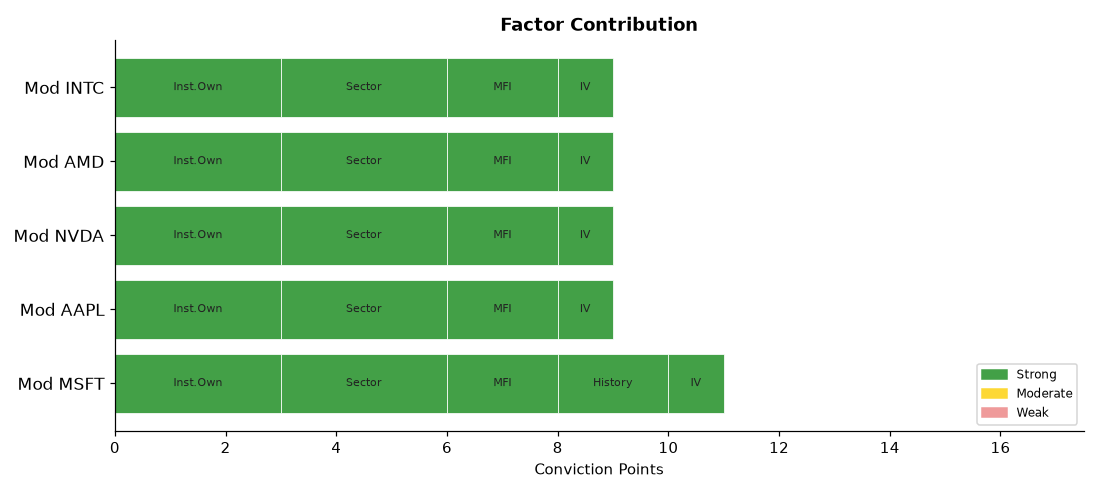
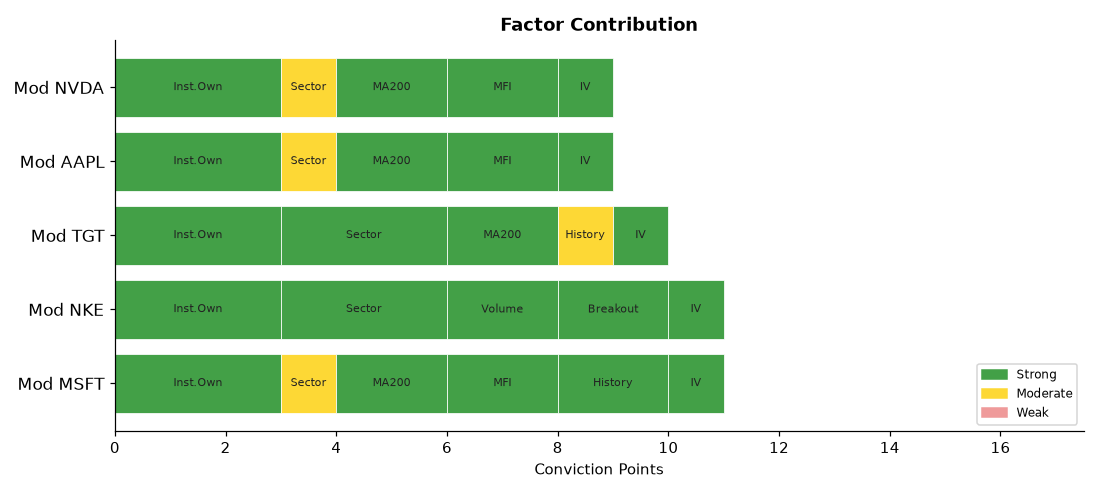
deploy: b7fadf5b06deb90e7ebb92f278722414bdd9750d

diff --git a/index.html b/index.html
@@ -4,7 +4,7 @@
   <meta charset="UTF-8">
   <meta name="viewport" content="width=device-width,initial-scale=1">
   <meta http-equiv="Cache-Control" content="no-cache,no-store,must-revalidate">
-  <title>Stock Breakout Screener — 2026-10-03 00:52</title>
+  <title>Stock Breakout Screener — 2026-10-03 04:41</title>
   <style>
     *{box-sizing:border-box;margin:0;padding:0}
     body{font-family:'Segoe UI',Arial,sans-serif;background:#f0f2f5;
@@ -34,7 +34,7 @@
 
 <div class="hdr">
   <h1>📈 Stock Breakout Screener</h1>
-  <p>Updated: 2026-10-03 00:52 UTC &nbsp;·&nbsp; Phase: Overnight &nbsp;·&nbsp;
+  <p>Updated: 2026-10-03 04:41 UTC &nbsp;·&nbsp; Phase: Pre-Market (before 9:30 AM ET) &nbsp;·&nbsp;
      129 stocks screened &nbsp;·&nbsp; Top 5 by conviction score</p>
 </div>
 
@@ -42,13 +42,13 @@
   <strong style="font-size:14px">Market Sentiment: 🐻 Bearish</strong>
   <div class="bar-wrap" style="margin-top:10px">
     <div style="width:0%;background:#43a047"></div>
-    <div style="width:6%;background:#fdd835"></div>
-    <div style="width:94%;background:#e53935"></div>
+    <div style="width:8%;background:#fdd835"></div>
+    <div style="width:92%;background:#e53935"></div>
   </div>
   <div style="font-size:12px;color:#555">
     🟢 Strong 0% &nbsp;
-    🟡 Moderate 6% &nbsp;
-    🔴 Weak 94%
+    🟡 Moderate 8% &nbsp;
+    🔴 Weak 92%
   </div>
 </div>
 
@@ -69,7 +69,7 @@
             </span>
           </div>
           <ul style="margin:0;padding-left:18px;font-size:13px;
-                     color:#333;line-height:1.8"><li style="margin:5px 0"><span style="background:#ffebee;color:#b71c1c;padding:2px 7px;border-radius:4px;font-size:11px;">❌</span> Volume: <b>0.5× average</b> — Above-average activity</li><li style="margin:5px 0"><span style="background:#ffebee;color:#b71c1c;padding:2px 7px;border-radius:4px;font-size:11px;">❌</span> Candle: close <b>$nan</b> vs open <b>$nan</b> (+nan%) — regular market close</li><li style="margin:5px 0"><span style="background:#ffebee;color:#b71c1c;padding:2px 7px;border-radius:4px;font-size:11px;">❌</span> 200-Day MA: price <b>$nan</b> vs MA <b>$nan</b> — <b>❌ Below</b> long-term trend</li><li style="margin:5px 0"><span style="background:#e8f5e9;color:#2e7d32;padding:2px 7px;border-radius:4px;font-size:11px;">✅</span> Inst. ownership: <b>75.8%</b> · MFI: <b>64.1</b> · Market cap: <b>$3842.9B</b></li><li style="margin:5px 0"><span style="background:#e8f5e9;color:#2e7d32;padding:2px 7px;border-radius:4px;font-size:11px;">✅</span> Last similar breakout: <b>Jul 30, 2026</b> → <b>+10.1%</b> over 10 trading days</li></ul>
+                     color:#333;line-height:1.8"><li style="margin:5px 0"><span style="background:#ffebee;color:#b71c1c;padding:2px 7px;border-radius:4px;font-size:11px;">❌</span> Volume: <b>0.5× average</b> — Above-average activity</li><li style="margin:5px 0"><span style="background:#ffebee;color:#b71c1c;padding:2px 7px;border-radius:4px;font-size:11px;">❌</span> Candle: close <b>$517.53</b> vs open <b>$519.39</b> (-0.4%) — regular market close</li><li style="margin:5px 0"><span style="background:#e8f5e9;color:#2e7d32;padding:2px 7px;border-radius:4px;font-size:11px;">✅</span> 200-Day MA: price <b>$517.53</b> vs MA <b>$435.45</b> — <b>✅ Above</b> long-term trend</li><li style="margin:5px 0"><span style="background:#e8f5e9;color:#2e7d32;padding:2px 7px;border-radius:4px;font-size:11px;">✅</span> Inst. ownership: <b>75.8%</b> · MFI: <b>66.1</b> · Market cap: <b>$3842.9B</b></li><li style="margin:5px 0"><span style="background:#e8f5e9;color:#2e7d32;padding:2px 7px;border-radius:4px;font-size:11px;">✅</span> Last similar breakout: <b>Jul 30, 2026</b> → <b>+10.1%</b> over 10 trading days</li></ul>
         </div>
         <div style="background:#fff;border:1px solid #ddd;border-radius:10px;
                     padding:16px 20px;margin-bottom:12px;
@@ -77,7 +77,41 @@
           <div style="display:flex;align-items:center;gap:10px;
                       flex-wrap:wrap;margin-bottom:10px">
             <span style="font-size:22px">🟡</span>
-            <span style="font-size:19px;font-weight:700">2. AAPL</span>
+            <span style="font-size:19px;font-weight:700">2. NKE</span>
+            <span style="font-size:12px;color:#666">Consumer Disc</span>
+            <span style="margin-left:auto;background:#1a237e;color:#fff;
+                         padding:3px 12px;border-radius:12px;
+                         font-size:13px;font-weight:600">
+              11/17
+            </span>
+          </div>
+          <ul style="margin:0;padding-left:18px;font-size:13px;
+                     color:#333;line-height:1.8"><li style="margin:5px 0"><span style="background:#e8f5e9;color:#2e7d32;padding:2px 7px;border-radius:4px;font-size:11px;">✅</span> Volume: <b>5.3× average</b> — 🔥 Strong unusual activity</li><li style="margin:5px 0"><span style="background:#e8f5e9;color:#2e7d32;padding:2px 7px;border-radius:4px;font-size:11px;">✅</span> Candle: close <b>$33.87</b> vs open <b>$32.55</b> (+4.1%) — regular market close</li><li style="margin:5px 0"><span style="background:#ffebee;color:#b71c1c;padding:2px 7px;border-radius:4px;font-size:11px;">❌</span> 200-Day MA: price <b>$33.87</b> vs MA <b>$41.39</b> — <b>❌ Below</b> long-term trend</li><li style="margin:5px 0"><span style="background:#e8f5e9;color:#2e7d32;padding:2px 7px;border-radius:4px;font-size:11px;">✅</span> Inst. ownership: <b>82.5%</b> · MFI: <b>22.2</b> · Market cap: <b>$50.2B</b></li></ul>
+        </div>
+        <div style="background:#fff;border:1px solid #ddd;border-radius:10px;
+                    padding:16px 20px;margin-bottom:12px;
+                    box-shadow:0 2px 6px rgba(0,0,0,.07)">
+          <div style="display:flex;align-items:center;gap:10px;
+                      flex-wrap:wrap;margin-bottom:10px">
+            <span style="font-size:22px">🟡</span>
+            <span style="font-size:19px;font-weight:700">3. TGT</span>
+            <span style="font-size:12px;color:#666">Consumer Disc</span>
+            <span style="margin-left:auto;background:#1a237e;color:#fff;
+                         padding:3px 12px;border-radius:12px;
+                         font-size:13px;font-weight:600">
+              10/17
+            </span>
+          </div>
+          <ul style="margin:0;padding-left:18px;font-size:13px;
+                     color:#333;line-height:1.8"><li style="margin:5px 0"><span style="background:#ffebee;color:#b71c1c;padding:2px 7px;border-radius:4px;font-size:11px;">❌</span> Volume: <b>0.9× average</b> — Above-average activity</li><li style="margin:5px 0"><span style="background:#ffebee;color:#b71c1c;padding:2px 7px;border-radius:4px;font-size:11px;">❌</span> Candle: close <b>$156.00</b> vs open <b>$157.00</b> (-0.6%) — regular market close</li><li style="margin:5px 0"><span style="background:#e8f5e9;color:#2e7d32;padding:2px 7px;border-radius:4px;font-size:11px;">✅</span> 200-Day MA: price <b>$156.00</b> vs MA <b>$138.50</b> — <b>✅ Above</b> long-term trend</li><li style="margin:5px 0"><span style="background:#e8f5e9;color:#2e7d32;padding:2px 7px;border-radius:4px;font-size:11px;">✅</span> Inst. ownership: <b>89.0%</b> · MFI: <b>27.6</b> · Market cap: <b>$70.9B</b></li><li style="margin:5px 0"><span style="background:#fffde7;color:#f57f17;padding:2px 7px;border-radius:4px;font-size:11px;">⚠</span> Last similar breakout: <b>Aug 19, 2026</b> → <b>+2.7%</b> over 10 trading days</li></ul>
+        </div>
+        <div style="background:#fff;border:1px solid #ddd;border-radius:10px;
+                    padding:16px 20px;margin-bottom:12px;
+                    box-shadow:0 2px 6px rgba(0,0,0,.07)">
+          <div style="display:flex;align-items:center;gap:10px;
+                      flex-wrap:wrap;margin-bottom:10px">
+            <span style="font-size:22px">🟡</span>
+            <span style="font-size:19px;font-weight:700">4. AAPL</span>
             <span style="font-size:12px;color:#666">Technology</span>
             <span style="margin-left:auto;background:#1a237e;color:#fff;
                          padding:3px 12px;border-radius:12px;
@@ -86,7 +120,7 @@
             </span>
           </div>
           <ul style="margin:0;padding-left:18px;font-size:13px;
-                     color:#333;line-height:1.8"><li style="margin:5px 0"><span style="background:#ffebee;color:#b71c1c;padding:2px 7px;border-radius:4px;font-size:11px;">❌</span> Volume: <b>0.6× average</b> — Above-average activity</li><li style="margin:5px 0"><span style="background:#ffebee;color:#b71c1c;padding:2px 7px;border-radius:4px;font-size:11px;">❌</span> Candle: close <b>$nan</b> vs open <b>$nan</b> (+nan%) — regular market close</li><li style="margin:5px 0"><span style="background:#ffebee;color:#b71c1c;padding:2px 7px;border-radius:4px;font-size:11px;">❌</span> 200-Day MA: price <b>$nan</b> vs MA <b>$nan</b> — <b>❌ Below</b> long-term trend</li><li style="margin:5px 0"><span style="background:#e8f5e9;color:#2e7d32;padding:2px 7px;border-radius:4px;font-size:11px;">✅</span> Inst. ownership: <b>66.3%</b> · MFI: <b>68.3</b> · Market cap: <b>$4869.9B</b></li></ul>
+                     color:#333;line-height:1.8"><li style="margin:5px 0"><span style="background:#ffebee;color:#b71c1c;padding:2px 7px;border-radius:4px;font-size:11px;">❌</span> Volume: <b>0.7× average</b> — Above-average activity</li><li style="margin:5px 0"><span style="background:#ffebee;color:#b71c1c;padding:2px 7px;border-radius:4px;font-size:11px;">❌</span> Candle: close <b>$333.69</b> vs open <b>$333.26</b> (+0.1%) — regular market close</li><li style="margin:5px 0"><span style="background:#e8f5e9;color:#2e7d32;padding:2px 7px;border-radius:4px;font-size:11px;">✅</span> 200-Day MA: price <b>$333.69</b> vs MA <b>$304.88</b> — <b>✅ Above</b> long-term trend</li><li style="margin:5px 0"><span style="background:#e8f5e9;color:#2e7d32;padding:2px 7px;border-radius:4px;font-size:11px;">✅</span> Inst. ownership: <b>66.3%</b> · MFI: <b>70.3</b> · Market cap: <b>$4869.9B</b></li></ul>
         </div>
         <div style="background:#fff;border:1px solid #ddd;border-radius:10px;
                     padding:16px 20px;margin-bottom:12px;
@@ -94,7 +128,7 @@
           <div style="display:flex;align-items:center;gap:10px;
                       flex-wrap:wrap;margin-bottom:10px">
             <span style="font-size:22px">🟡</span>
-            <span style="font-size:19px;font-weight:700">3. NVDA</span>
+            <span style="font-size:19px;font-weight:700">5. NVDA</span>
             <span style="font-size:12px;color:#666">Technology</span>
             <span style="margin-left:auto;background:#1a237e;color:#fff;
                          padding:3px 12px;border-radius:12px;
@@ -103,41 +137,7 @@
             </span>
           </div>
           <ul style="margin:0;padding-left:18px;font-size:13px;
-                     color:#333;line-height:1.8"><li style="margin:5px 0"><span style="background:#ffebee;color:#b71c1c;padding:2px 7px;border-radius:4px;font-size:11px;">❌</span> Volume: <b>1.0× average</b> — Above-average activity</li><li style="margin:5px 0"><span style="background:#ffebee;color:#b71c1c;padding:2px 7px;border-radius:4px;font-size:11px;">❌</span> Candle: close <b>$nan</b> vs open <b>$nan</b> (+nan%) — regular market close</li><li style="margin:5px 0"><span style="background:#ffebee;color:#b71c1c;padding:2px 7px;border-radius:4px;font-size:11px;">❌</span> 200-Day MA: price <b>$nan</b> vs MA <b>$nan</b> — <b>❌ Below</b> long-term trend</li><li style="margin:5px 0"><span style="background:#e8f5e9;color:#2e7d32;padding:2px 7px;border-radius:4px;font-size:11px;">✅</span> Inst. ownership: <b>71.4%</b> · MFI: <b>80.6</b> · Market cap: <b>$5649.2B</b></li></ul>
-        </div>
-        <div style="background:#fff;border:1px solid #ddd;border-radius:10px;
-                    padding:16px 20px;margin-bottom:12px;
-                    box-shadow:0 2px 6px rgba(0,0,0,.07)">
-          <div style="display:flex;align-items:center;gap:10px;
-                      flex-wrap:wrap;margin-bottom:10px">
-            <span style="font-size:22px">🟡</span>
-            <span style="font-size:19px;font-weight:700">4. AMD</span>
-            <span style="font-size:12px;color:#666">Technology</span>
-            <span style="margin-left:auto;background:#1a237e;color:#fff;
-                         padding:3px 12px;border-radius:12px;
-                         font-size:13px;font-weight:600">
-              9/17
-            </span>
-          </div>
-          <ul style="margin:0;padding-left:18px;font-size:13px;
-                     color:#333;line-height:1.8"><li style="margin:5px 0"><span style="background:#ffebee;color:#b71c1c;padding:2px 7px;border-radius:4px;font-size:11px;">❌</span> Volume: <b>0.6× average</b> — Above-average activity</li><li style="margin:5px 0"><span style="background:#ffebee;color:#b71c1c;padding:2px 7px;border-radius:4px;font-size:11px;">❌</span> Candle: close <b>$nan</b> vs open <b>$nan</b> (+nan%) — regular market close</li><li style="margin:5px 0"><span style="background:#ffebee;color:#b71c1c;padding:2px 7px;border-radius:4px;font-size:11px;">❌</span> 200-Day MA: price <b>$nan</b> vs MA <b>$nan</b> — <b>❌ Below</b> long-term trend</li><li style="margin:5px 0"><span style="background:#e8f5e9;color:#2e7d32;padding:2px 7px;border-radius:4px;font-size:11px;">✅</span> Inst. ownership: <b>75.4%</b> · MFI: <b>81.1</b> · Market cap: <b>$1034.8B</b></li></ul>
-        </div>
-        <div style="background:#fff;border:1px solid #ddd;border-radius:10px;
-                    padding:16px 20px;margin-bottom:12px;
-                    box-shadow:0 2px 6px rgba(0,0,0,.07)">
-          <div style="display:flex;align-items:center;gap:10px;
-                      flex-wrap:wrap;margin-bottom:10px">
-            <span style="font-size:22px">🟡</span>
-            <span style="font-size:19px;font-weight:700">5. INTC</span>
-            <span style="font-size:12px;color:#666">Technology</span>
-            <span style="margin-left:auto;background:#1a237e;color:#fff;
-                         padding:3px 12px;border-radius:12px;
-                         font-size:13px;font-weight:600">
-              9/17
-            </span>
-          </div>
-          <ul style="margin:0;padding-left:18px;font-size:13px;
-                     color:#333;line-height:1.8"><li style="margin:5px 0"><span style="background:#ffebee;color:#b71c1c;padding:2px 7px;border-radius:4px;font-size:11px;">❌</span> Volume: <b>0.8× average</b> — Above-average activity</li><li style="margin:5px 0"><span style="background:#ffebee;color:#b71c1c;padding:2px 7px;border-radius:4px;font-size:11px;">❌</span> Candle: close <b>$nan</b> vs open <b>$nan</b> (+nan%) — regular market close</li><li style="margin:5px 0"><span style="background:#ffebee;color:#b71c1c;padding:2px 7px;border-radius:4px;font-size:11px;">❌</span> 200-Day MA: price <b>$nan</b> vs MA <b>$nan</b> — <b>❌ Below</b> long-term trend</li><li style="margin:5px 0"><span style="background:#e8f5e9;color:#2e7d32;padding:2px 7px;border-radius:4px;font-size:11px;">✅</span> Inst. ownership: <b>62.6%</b> · MFI: <b>73.9</b> · Market cap: <b>$630.8B</b></li></ul>
+                     color:#333;line-height:1.8"><li style="margin:5px 0"><span style="background:#ffebee;color:#b71c1c;padding:2px 7px;border-radius:4px;font-size:11px;">❌</span> Volume: <b>1.0× average</b> — Above-average activity</li><li style="margin:5px 0"><span style="background:#ffebee;color:#b71c1c;padding:2px 7px;border-radius:4px;font-size:11px;">❌</span> Candle: close <b>$233.95</b> vs open <b>$236.06</b> (-0.9%) — regular market close</li><li style="margin:5px 0"><span style="background:#e8f5e9;color:#2e7d32;padding:2px 7px;border-radius:4px;font-size:11px;">✅</span> 200-Day MA: price <b>$233.95</b> vs MA <b>$210.67</b> — <b>✅ Above</b> long-term trend</li><li style="margin:5px 0"><span style="background:#e8f5e9;color:#2e7d32;padding:2px 7px;border-radius:4px;font-size:11px;">✅</span> Inst. ownership: <b>71.4%</b> · MFI: <b>82.4</b> · Market cap: <b>$5649.2B</b></li></ul>
         </div>
 
 
@@ -170,14 +170,14 @@
           <td style="font-weight:700;text-align:left;padding-left:10px">
             🟡 MSFT</td>
           <td style="background:#ffcdd2">0.5×</td>
-          <td style="background:#ffcdd2">+nan%</td>
-          <td style="background:#ffcdd2">
-            ▼ Below</td>
+          <td style="background:#ffcdd2">-0.4%</td>
+          <td style="background:#c8e6c9">
+            ▲ Above</td>
           <td style="background:#c8e6c9">
             75.8%</td>
           <td style="background:#c8e6c9">
-            64.1</td>
-          <td style="background:#c8e6c9">Technology</td>
+            66.1</td>
+          <td style="background:#fff9c4">Technology</td>
           <td style="background:#c8e6c9">
             47.7%</td>
           <td style="background:#c8e6c9">
@@ -186,16 +186,52 @@
         </tr>
         <tr>
           <td style="font-weight:700;text-align:left;padding-left:10px">
-            🟡 AAPL</td>
-          <td style="background:#ffcdd2">0.6×</td>
-          <td style="background:#ffcdd2">+nan%</td>
+            🟡 NKE</td>
+          <td style="background:#c8e6c9">5.3×</td>
+          <td style="background:#c8e6c9">+4.1%</td>
           <td style="background:#ffcdd2">
             ▼ Below</td>
           <td style="background:#c8e6c9">
+            82.5%</td>
+          <td style="background:#ffcdd2">
+            22.2</td>
+          <td style="background:#c8e6c9">Consumer Disc</td>
+          <td style="background:#c8e6c9">
+            65.5%</td>
+          <td style="background:#ffcdd2">
+            N/A</td>
+          <td style="font-weight:800;font-size:15px">11/17</td>
+        </tr>
+        <tr>
+          <td style="font-weight:700;text-align:left;padding-left:10px">
+            🟡 TGT</td>
+          <td style="background:#ffcdd2">0.9×</td>
+          <td style="background:#ffcdd2">-0.6%</td>
+          <td style="background:#c8e6c9">
+            ▲ Above</td>
+          <td style="background:#c8e6c9">
+            89.0%</td>
+          <td style="background:#ffcdd2">
+            27.6</td>
+          <td style="background:#c8e6c9">Consumer Disc</td>
+          <td style="background:#c8e6c9">
+            57.6%</td>
+          <td style="background:#fff9c4">
+            +2.7%</td>
+          <td style="font-weight:800;font-size:15px">10/17</td>
+        </tr>
+        <tr>
+          <td style="font-weight:700;text-align:left;padding-left:10px">
+            🟡 AAPL</td>
+          <td style="background:#ffcdd2">0.7×</td>
+          <td style="background:#ffcdd2">+0.1%</td>
+          <td style="background:#c8e6c9">
+            ▲ Above</td>
+          <td style="background:#c8e6c9">
             66.3%</td>
           <td style="background:#c8e6c9">
-            68.3</td>
-          <td style="background:#c8e6c9">Technology</td>
+            70.3</td>
+          <td style="background:#fff9c4">Technology</td>
           <td style="background:#c8e6c9">
             36.2%</td>
           <td style="background:#ffcdd2">
@@ -206,52 +242,16 @@
           <td style="font-weight:700;text-align:left;padding-left:10px">
             🟡 NVDA</td>
           <td style="background:#ffcdd2">1.0×</td>
-          <td style="background:#ffcdd2">+nan%</td>
-          <td style="background:#ffcdd2">
-            ▼ Below</td>
+          <td style="background:#ffcdd2">-0.9%</td>
+          <td style="background:#c8e6c9">
+            ▲ Above</td>
           <td style="background:#c8e6c9">
             71.4%</td>
           <td style="background:#c8e6c9">
-            80.6</td>
-          <td style="background:#c8e6c9">Technology</td>
+            82.4</td>
+          <td style="background:#fff9c4">Technology</td>
           <td style="background:#c8e6c9">
             73.9%</td>
-          <td style="background:#ffcdd2">
-            N/A</td>
-          <td style="font-weight:800;font-size:15px">9/17</td>
-        </tr>
-        <tr>
-          <td style="font-weight:700;text-align:left;padding-left:10px">
-            🟡 AMD</td>
-          <td style="background:#ffcdd2">0.6×</td>
-          <td style="background:#ffcdd2">+nan%</td>
-          <td style="background:#ffcdd2">
-            ▼ Below</td>
-          <td style="background:#c8e6c9">
-            75.4%</td>
-          <td style="background:#c8e6c9">
-            81.1</td>
-          <td style="background:#c8e6c9">Technology</td>
-          <td style="background:#c8e6c9">
-            63.7%</td>
-          <td style="background:#ffcdd2">
-            N/A</td>
-          <td style="font-weight:800;font-size:15px">9/17</td>
-        </tr>
-        <tr>
-          <td style="font-weight:700;text-align:left;padding-left:10px">
-            🟡 INTC</td>
-          <td style="background:#ffcdd2">0.8×</td>
-          <td style="background:#ffcdd2">+nan%</td>
-          <td style="background:#ffcdd2">
-            ▼ Below</td>
-          <td style="background:#c8e6c9">
-            62.6%</td>
-          <td style="background:#c8e6c9">
-            73.9</td>
-          <td style="background:#c8e6c9">Technology</td>
-          <td style="background:#c8e6c9">
-            111.4%</td>
           <td style="background:#ffcdd2">
             N/A</td>
           <td style="font-weight:800;font-size:15px">9/17</td>
@@ -277,58 +277,58 @@
       
         <tr>
           <td style="text-align:left;padding-left:10px;font-weight:600">
-            #1 Technology</td>
-          <td style="background:#ffebee;color:#c62828;font-weight:700">+nan%</td>
+            #1 Consumer Disc</td>
+          <td style="background:#e8f5e9;color:#2e7d32;font-weight:700">+1.13%</td>
         </tr>
         <tr>
           <td style="text-align:left;padding-left:10px;font-weight:600">
-            #2 Healthcare</td>
-          <td style="background:#ffebee;color:#c62828;font-weight:700">+nan%</td>
+            #2 Technology</td>
+          <td style="background:#e8f5e9;color:#2e7d32;font-weight:700">+1.01%</td>
         </tr>
         <tr>
           <td style="text-align:left;padding-left:10px;font-weight:600">
-            #3 Financials</td>
-          <td style="background:#ffebee;color:#c62828;font-weight:700">+nan%</td>
+            #3 Industrials</td>
+          <td style="background:#e8f5e9;color:#2e7d32;font-weight:700">+0.78%</td>
         </tr>
         <tr>
           <td style="text-align:left;padding-left:10px;font-weight:600">
-            #4 Industrials</td>
-          <td style="background:#ffebee;color:#c62828;font-weight:700">+nan%</td>
+            #4 Materials</td>
+          <td style="background:#e8f5e9;color:#2e7d32;font-weight:700">+0.66%</td>
         </tr>
         <tr>
           <td style="text-align:left;padding-left:10px;font-weight:600">
-            #5 Energy</td>
-          <td style="background:#ffebee;color:#c62828;font-weight:700">+nan%</td>
+            #5 Utilities</td>
+          <td style="background:#e8f5e9;color:#2e7d32;font-weight:700">+0.38%</td>
         </tr>
         <tr>
           <td style="text-align:left;padding-left:10px;font-weight:600">
-            #6 Consumer Disc</td>
-          <td style="background:#ffebee;color:#c62828;font-weight:700">+nan%</td>
+            #6 Comm. Services</td>
+          <td style="background:#e8f5e9;color:#2e7d32;font-weight:700">+0.35%</td>
         </tr>
         <tr>
           <td style="text-align:left;padding-left:10px;font-weight:600">
-            #7 Consumer Stpl</td>
-          <td style="background:#ffebee;color:#c62828;font-weight:700">+nan%</td>
+            #7 Real Estate</td>
+          <td style="background:#e8f5e9;color:#2e7d32;font-weight:700">+0.32%</td>
         </tr>
         <tr>
           <td style="text-align:left;padding-left:10px;font-weight:600">
-            #8 Materials</td>
-          <td style="background:#ffebee;color:#c62828;font-weight:700">+nan%</td>
+            #8 Consumer Stpl</td>
+          <td style="background:#e8f5e9;color:#2e7d32;font-weight:700">+0.25%</td>
         </tr>
         <tr>
           <td style="text-align:left;padding-left:10px;font-weight:600">
-            #9 Real Estate</td>
-          <td style="background:#ffebee;color:#c62828;font-weight:700">+nan%</td>
+            #9 Energy</td>
+          <td style="background:#e8f5e9;color:#2e7d32;font-weight:700">+0.19%</td>
         </tr>
         <tr>
           <td style="text-align:left;padding-left:10px;font-weight:600">
-            #10 Utilities</td>
-          <td style="background:#ffebee;color:#c62828;font-weight:700">+nan%</td>
+            #10 Financials</td>
+          <td style="background:#e8f5e9;color:#2e7d32;font-weight:700">+0.06%</td>
         </tr>
         <tr>
           <td style="text-align:left;padding-left:10px;font-weight:600">
-            #11 Comm. Services</td>
-          <td style="background:#ffebee;color:#c62828;font-weight:700">+nan%</td>
+            #11 Healthcare</td>
+          <td style="background:#ffebee;color:#c62828;font-weight:700">-0.01%</td>
         </tr>
     </table>
   </div>
@@ -367,7 +367,7 @@
         <li><b>Scoring weights:</b>
             Inst.Own(3) · Sector(3) · Volume(2) · Breakout(2) ·
             MA200(2) · MFI(2) · History(2) · IV(1) = 17pts max</li>
-        <li><b>Run time:</b> 2026-10-03 00:52 UTC — Market phase: Overnight</li>
+        <li><b>Run time:</b> 2026-10-03 04:41 UTC — Market phase: Pre-Market (before 9:30 AM ET)</li>
       </ul>
     </div>
 
